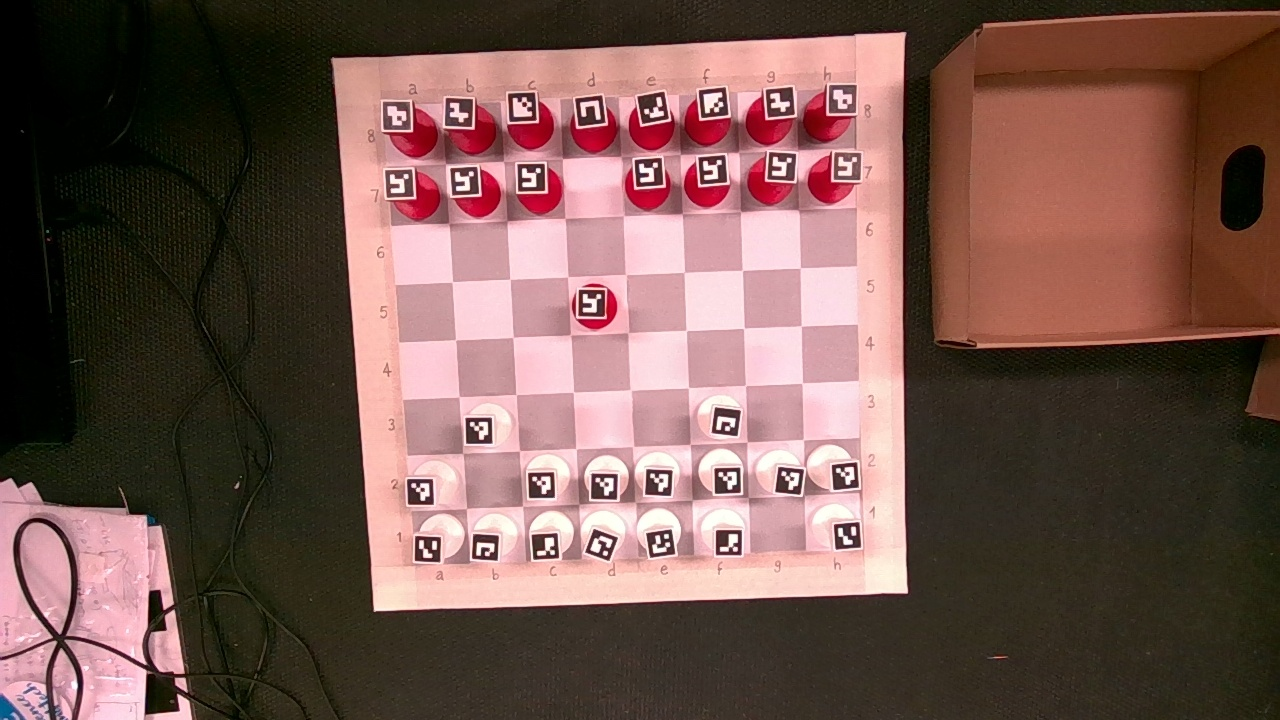
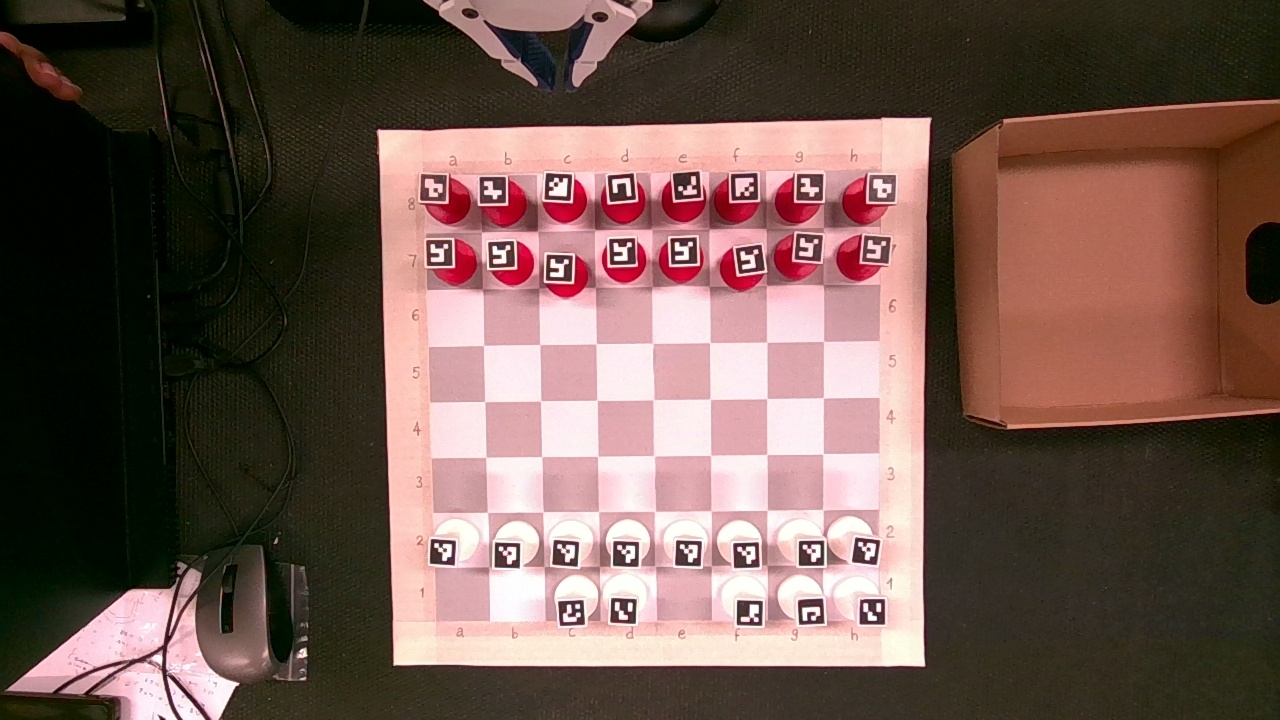
enable castling

diff --git a/game.py b/game.py
@@ -13,7 +13,7 @@ from move_to_x_y import move_to_cartesian_position as move_arm_to_position
 from arm import move_arm_to_chess_pos2,get_real_world_coordinates
 import utilities
 import argparse
-from pick_and_place import pick_chess_piece,place_chess_piece
+from pick_and_place import pick_chess_piece,place_chess_piece,close_gripper
 from photo import capture_image_from_realsense
 from chess_board_extract import extract_chessboard
 
@@ -27,6 +27,10 @@ extracted_board_with_no_border="extracted_chessboard_no_border.jpg"
 bucket_coordinates_x = 0.258
 bucket_coordinates_y = 0.292
 
+home_x=0.13
+home_y=-0.069
+home_z=0.1
+
 # Parse arguments
 parser = argparse.ArgumentParser()
 args = utilities.parseConnectionArguments(parser)
@@ -35,19 +39,8 @@ sys.path.insert(0, os.path.join(os.path.dirname(__file__), ".."))
 
 # Initialize the chess board
 board = chess.Board()
-board.clean_castling_rights()
 piece_count=32
-
-# prev_board = [
-#     [3, 1, 2, 3, 5, 2, 1, 3],
-#     [0, 0, 0, 0, 0, 0, 0, 0],
-#     [-1, -1, -1, -1, -1, -1, -1, -1],
-#     [-1, -1, -1, -1, -1, -1, -1, -1],
-#     [-1, -1, -1, -1, -1, -1, -1, -1],
-#     [-1, -1, -1, -1, -1, -1, -1, -1],
-#     [6, 6, 6, 6, 6, 6, 6, 6],
-#     [9, 7, 8, 11, 10, 8, 7, 9]
-# ]
+castling_availability=True
 
 prev_board = [
     [9, 7, 8, 10, 11, 8, 7, 9],
@@ -60,6 +53,18 @@ prev_board = [
     [3, 1, 2, 5, 4, 2, 1, 3]
 ]
 
+# #test_board
+# prev_board = [
+#     [9, 7, 8, 10, 11, 8, 7, 9],
+#     [6, 6, 6, 6, 6, 6, 6, 6],
+#     [-1, -1, -1, -1, -1, -1, -1, -1],
+#     [-1, -1, -1, -1, -1, -1, -1, -1],
+#     [-1, -1, -1, -1, -1, -1, -1, -1],
+#     [-1, -1, -1, -1, -1, -1, -1, -1],
+#     [0, 0, 0, 0, 0, 0, 0, 0],
+#     [3, -1, -1, -1, 4, 2, 1, 3]
+# ]
+
 # Use the Stockfish engine for AI moves (make sure it's installed and available on your system)
 engine_path = "/usr/games/stockfish"  # Replace with the actual path to Stockfish
 
@@ -67,7 +72,7 @@ engine_path = "/usr/games/stockfish"  # Replace with the actual path to Stockfis
 def board_to_matrix(board):
     # Map pieces to numeric values
     piece_to_value = {
-        'p': 6, 'r': 9, 'n': 7, 'b': 8, 'q': 11, 'k': 10,  # Black pieces
+        'p': 6, 'r': 9, 'n': 7, 'b': 8, 'q': 10, 'k': 11,  # Black pieces
         'P': 0, 'R': 3, 'N': 1, 'B': 2, 'Q': 5, 'K': 4,    # White pieces
         None: -1  # Empty squares
     }
@@ -96,6 +101,10 @@ with utilities.DeviceConnection.createTcpConnection(args) as router:
     engine = chess.engine.SimpleEngine.popen_uci(engine_path)
     print("Welcome to Chess! Enter your moves in UCI notation (e.g., e2e4). Type 'quit' to exit.")
 
+    move_arm_to_position(base, home_x, home_y, home_z) # home pose before taking the snap of the chess board
+    close_gripper(base)
+    time.sleep(3)
+
     while not board.is_game_over():
         # Display the board
         print(board)
@@ -103,13 +112,12 @@ with utilities.DeviceConnection.createTcpConnection(args) as router:
         # oppent will play as white and do the first move and press n.
         user_input = input("Press enter after move")
 
-        move_arm_to_chess_pos2(base,'e4')
-        time.sleep(1)
+        # move_arm_to_chess_pos2(base,'e4')
+        # time.sleep(1)
 
         # generate fen from the image
-        move_arm_to_position(base, 0.077,0.127, 0.15) # home pose before taking the snap of the chess board
+        move_arm_to_position(base, home_x, home_y, home_z) # home pose before taking the snap of the chess board
         time.sleep(3)
-
         capture_image_from_realsense(snap) # taking the snap
 
         img_board=extract_chessboard(snap)
@@ -118,6 +126,7 @@ with utilities.DeviceConnection.createTcpConnection(args) as router:
 
         current_board,count=chessboard_to_matrix(extracted_board)
         while count!=piece_count and count!=piece_count-1:
+            print(piece_count)
             capture_image_from_realsense(snap) # taking the snap
             img_board=extract_chessboard(snap)
             cv2.imwrite(extracted_board, img_board)
@@ -126,11 +135,11 @@ with utilities.DeviceConnection.createTcpConnection(args) as router:
         # Get the human player's move
         print(prev_board)
         print(current_board)
-        human_move,is_capture=find_chess_move(prev_board,current_board)
+        human_move,is_capture,castling_availability=find_chess_move(prev_board,current_board,castling_availability)
+        
+        print("human move: ", human_move)
 
-        if(is_capture):
-            piece_count-=1
-        print(human_move)
+        print('castling availability: '+str(castling_availability))
 
         
         try:
@@ -144,6 +153,13 @@ with utilities.DeviceConnection.createTcpConnection(args) as router:
         except ValueError:
             print("Invalid UCI format. Try again.")
             continue
+        
+        if(is_capture):
+            piece_count-=1
+            print(is_capture)
+            # print('quit in if')
+            # quit()
+        print(human_move)
 
         # Check if the game is over after the human move
         if board.is_game_over():
@@ -155,8 +171,45 @@ with utilities.DeviceConnection.createTcpConnection(args) as router:
         
         # Extract the move details
         ai_move = result.move
+        
         print("AI move:", result.move)
+        
+        # # Determine the given move is a castling move
+        # black_kingside = chess.Move.from_uci("e8g8")  # Black kingside castling
+        # black_queenside = chess.Move.from_uci("e8c8")  # Black queenside castling
+        
+        # ai_move = black_kingside
 
+        # Check if the move is kingside or queenside castling
+        if board.is_castling(ai_move):
+            
+            if board.is_kingside_castling(ai_move):
+                # Rook's move: h8 -> f8
+                rook_source_pos = 'h8'
+                rook_target_pos = 'f8'
+            elif board.is_queenside_castling(ai_move):
+                # Rook's move: a8 -> d8
+                rook_source_pos = 'a8'
+                rook_target_pos = 'd8'
+            
+            # Perform the AI's move    
+            move_arm_to_chess_pos2(base,'e4')
+
+            time.sleep(1)
+            _,_,target_z = get_real_world_coordinates(rook_source_pos)
+            print(target_z)
+            move_arm_to_chess_pos2(base,rook_source_pos)
+            time.sleep(1)
+            pick_chess_piece(base,target_z)  # pick
+
+            move_arm_to_chess_pos2(base,'e4')
+            
+            time.sleep(1)
+            move_arm_to_chess_pos2(base,rook_target_pos)
+            time.sleep(1)
+            place_chess_piece(base,target_z)  # place
+
+            
         # Determine the source and target squares of the move
         source_square = ai_move.from_square  # Starting square index (0-63)
         target_square = ai_move.to_square    # Ending square index (0-63)
@@ -166,16 +219,17 @@ with utilities.DeviceConnection.createTcpConnection(args) as router:
         target_pos = chess.square_name(target_square)  # e.g., 'e4'
 
         # Check if the target square contains an opponent's piece (indicates a capture)
-        capture_move = chess.Move.from_uci(str(ai_move))  # check capturing 
+        # capture_move = chess.Move.from_uci(str(ai_move))  # check capturing 
         
-        if board.is_capture(capture_move): 
+        if board.is_capture(ai_move): 
             piece_count-=1   
-            captured_square = chess.square_name(capture_move.to_square)
+            captured_square = chess.square_name(ai_move.to_square)
 
             print(f"The AI move captures a piece on {captured_square}.")
 
             # Move the arm to the captured piece's position (captured_square)
             move_arm_to_chess_pos2(base,'e4')
+            # move_arm_to_position(base, home_x, home_y, home_z) # home pose
             time.sleep(1)
             _,_,target_z = get_real_world_coordinates(captured_square)
             move_arm_to_chess_pos2(base, captured_square)
@@ -186,11 +240,13 @@ with utilities.DeviceConnection.createTcpConnection(args) as router:
             # bucket_coordinates = 'h1'  # Example bucket position (change as needed)
             move_arm_to_position(base,bucket_coordinates_x,bucket_coordinates_y)
             time.sleep(2)
-            place_chess_piece(base,target_z=0.8)  # Example place
+            place_chess_piece(base,target_z=0.1)  # Example place
 
 
         # Perform the AI's move    
         move_arm_to_chess_pos2(base,'e4')
+
+        # move_arm_to_position(base, home_x, home_y, home_z) # home pose before taking the snap of the chess board
         time.sleep(1)
         _,_,target_z = get_real_world_coordinates(source_pos)
         print(target_z)
@@ -199,16 +255,22 @@ with utilities.DeviceConnection.createTcpConnection(args) as router:
         pick_chess_piece(base,target_z)  # Example pick
 
         move_arm_to_chess_pos2(base,'e4')
+        # move_arm_to_position(base, home_x, home_y, home_z) # home pose before taking the snap of the chess board
         time.sleep(1)
         move_arm_to_chess_pos2(base,target_pos)
         time.sleep(1)
         place_chess_piece(base,target_z)  # Example place
+
+        move_arm_to_position(base, home_x, home_y, home_z) # home pose before taking the snap of the chess board
+        time.sleep(3)
 
         # Push the move on the board to update the state
         board.push(ai_move)
 
         # Convert the board to a matrix
         prev_board = board_to_matrix(board)
+
+        
         
 
     # Display the game result

diff --git a/return_move.py b/return_move.py
@@ -1,13 +1,39 @@
 def to_chess_notation(x, y):
     return chr(y + ord('a')) + str(8 - x)
 
-def find_chess_move(initial_board, final_board):
+def detect_white_king_castling(initial_board, final_board):
+    """
+    Detect if the White King has castled (kingside or queenside).
+    
+    Args:
+        initial_board (list of list): The initial 8x8 chessboard matrix.
+        final_board (list of list): The final 8x8 chessboard matrix.
+    
+    Returns:
+        str: The type of castling ("start coordinates, end coordinates, castling_availability) or "King did not castle".
+    """
+    # Check if the King is still in its starting position (e1)
+    if initial_board[7][4] == 4 and final_board[7][4] != 4:
+        # King moved, determine where it moved
+        if final_board[7][6] == 4:  # King moved to g1
+            return (7,4),(7,6),False
+        elif final_board[7][2] == 4:  # King moved to c1
+            return (7,4),(7,2),False
+    else:
+        return None,None,True
+def find_chess_move(initial_board, final_board,castling_availability):
     # Convert the board positions into chess notation (0-indexed to chess coordinates)
     
     start_pos = None
     end_pos = None
     capture=False
-
+    if (castling_availability):
+        start_pos,end_pos,castling_availability=detect_white_king_castling(initial_board,final_board)
+        if(castling_availability==False):
+            start_square = to_chess_notation(start_pos[0], start_pos[1])
+            end_square = to_chess_notation(end_pos[0], end_pos[1])
+            return start_square+end_square,capture,castling_availability
+    
     for i in range(8):
         for j in range(8):
             if initial_board[i][j] != final_board[i][j]:
@@ -30,34 +56,33 @@ def find_chess_move(initial_board, final_board):
     if start_pos and end_pos:
         start_square = to_chess_notation(start_pos[0], start_pos[1])
         end_square = to_chess_notation(end_pos[0], end_pos[1])
-        return start_square + end_square,capture
-    else:
-        return None
+        return start_square + end_square,capture,castling_availability
+    # else:
+    #     return None
     
 
 # # Example matrices
 # initial_matrix = [
-#     [1, 2, 3, 5, 4, 3, 2, 1],
-#     [0, 0, 0, -1, 0, 0, 0, 0],
-#     [-1, -1, -1, -1, -1, -1, -1, -1],
-#     [-1, -1, 0, 6, -1, -1, -1, -1],
-#     [-1, -1, -1, -1, -1, -1, -1, -1],
-#     [-1, -1, -1, -1, -1, -1, -1, -1],
+#     [9, 7, 8, 10, 11, 8, 7, 9],
 #     [6, 6, 6, 6, 6, 6, 6, 6],
-#     [7, 8, 9, 10, 11, 9, 8, 7]
+#     [-1, -1, -1, -1, -1, -1, -1, -1],
+#     [-1, -1, -1, -1, -1, -1, -1, -1],
+#     [-1, -1, -1, -1, -1, -1, -1, -1],
+#     [-1, -1, -1, -1, -1, -1, -1, -1],
+#     [0, 0, 0, 0, 0, 0, 0, 0],
+#     [3, 1, 2, 5, 4, 2, 1, 3]
 # ]
 
 # final_matrix = [
-#     [1, 2, 3, 5, 4, 3, 2, 1],
-#     [0, 0, 0, -1, 0, 0, 0, 0],
-#     [-1, -1, 6, -1, -1, -1, -1, -1],
-#     [-1, -1, -1, -1, -1, -1, -1, -1],
-#     [-1, -1, -1, -1, -1, -1, -1, -1],
-#     [-1, -1, -1, -1, -1, -1, -1, -1],
+#     [9, 7, 8, 10, 11, 8, 7, 9],
 #     [6, 6, 6, 6, 6, 6, 6, 6],
-#     [7, 8, 9, 10, 11, 9, 8, 7]
+#     [-1, -1, -1, -1, -1, -1, -1, -1],
+#     [-1, -1, -1, -1, -1, -1, -1, -1],
+#     [0, -1, -1, -1, -1, -1, -1, -1],
+#     [-1, -1, -1, -1, -1, -1, -1, -1],
+#     [-1, 0, 0, 0, 0, 0, 0, 0],
+#     [3, 1, 2, 5, 4, 2, 1, 3]
 # ]
-
 # # Find the move
 # move = find_chess_move(initial_matrix, final_matrix)
 # print("The move is:", move)

diff --git a/rf2.py b/rf2.py
@@ -144,7 +144,7 @@ def chessboard_to_matrix(image_path):
     # cv2.waitKey(0)  # Wait indefinitely until a key is pressed
     # cv2.destroyAllWindows()
     print(count)
-    return matrix, count
+    return matrix.tolist(), count
 
 def convert_to_fen(board):
     # Mapping for black pieces to their FEN notation
